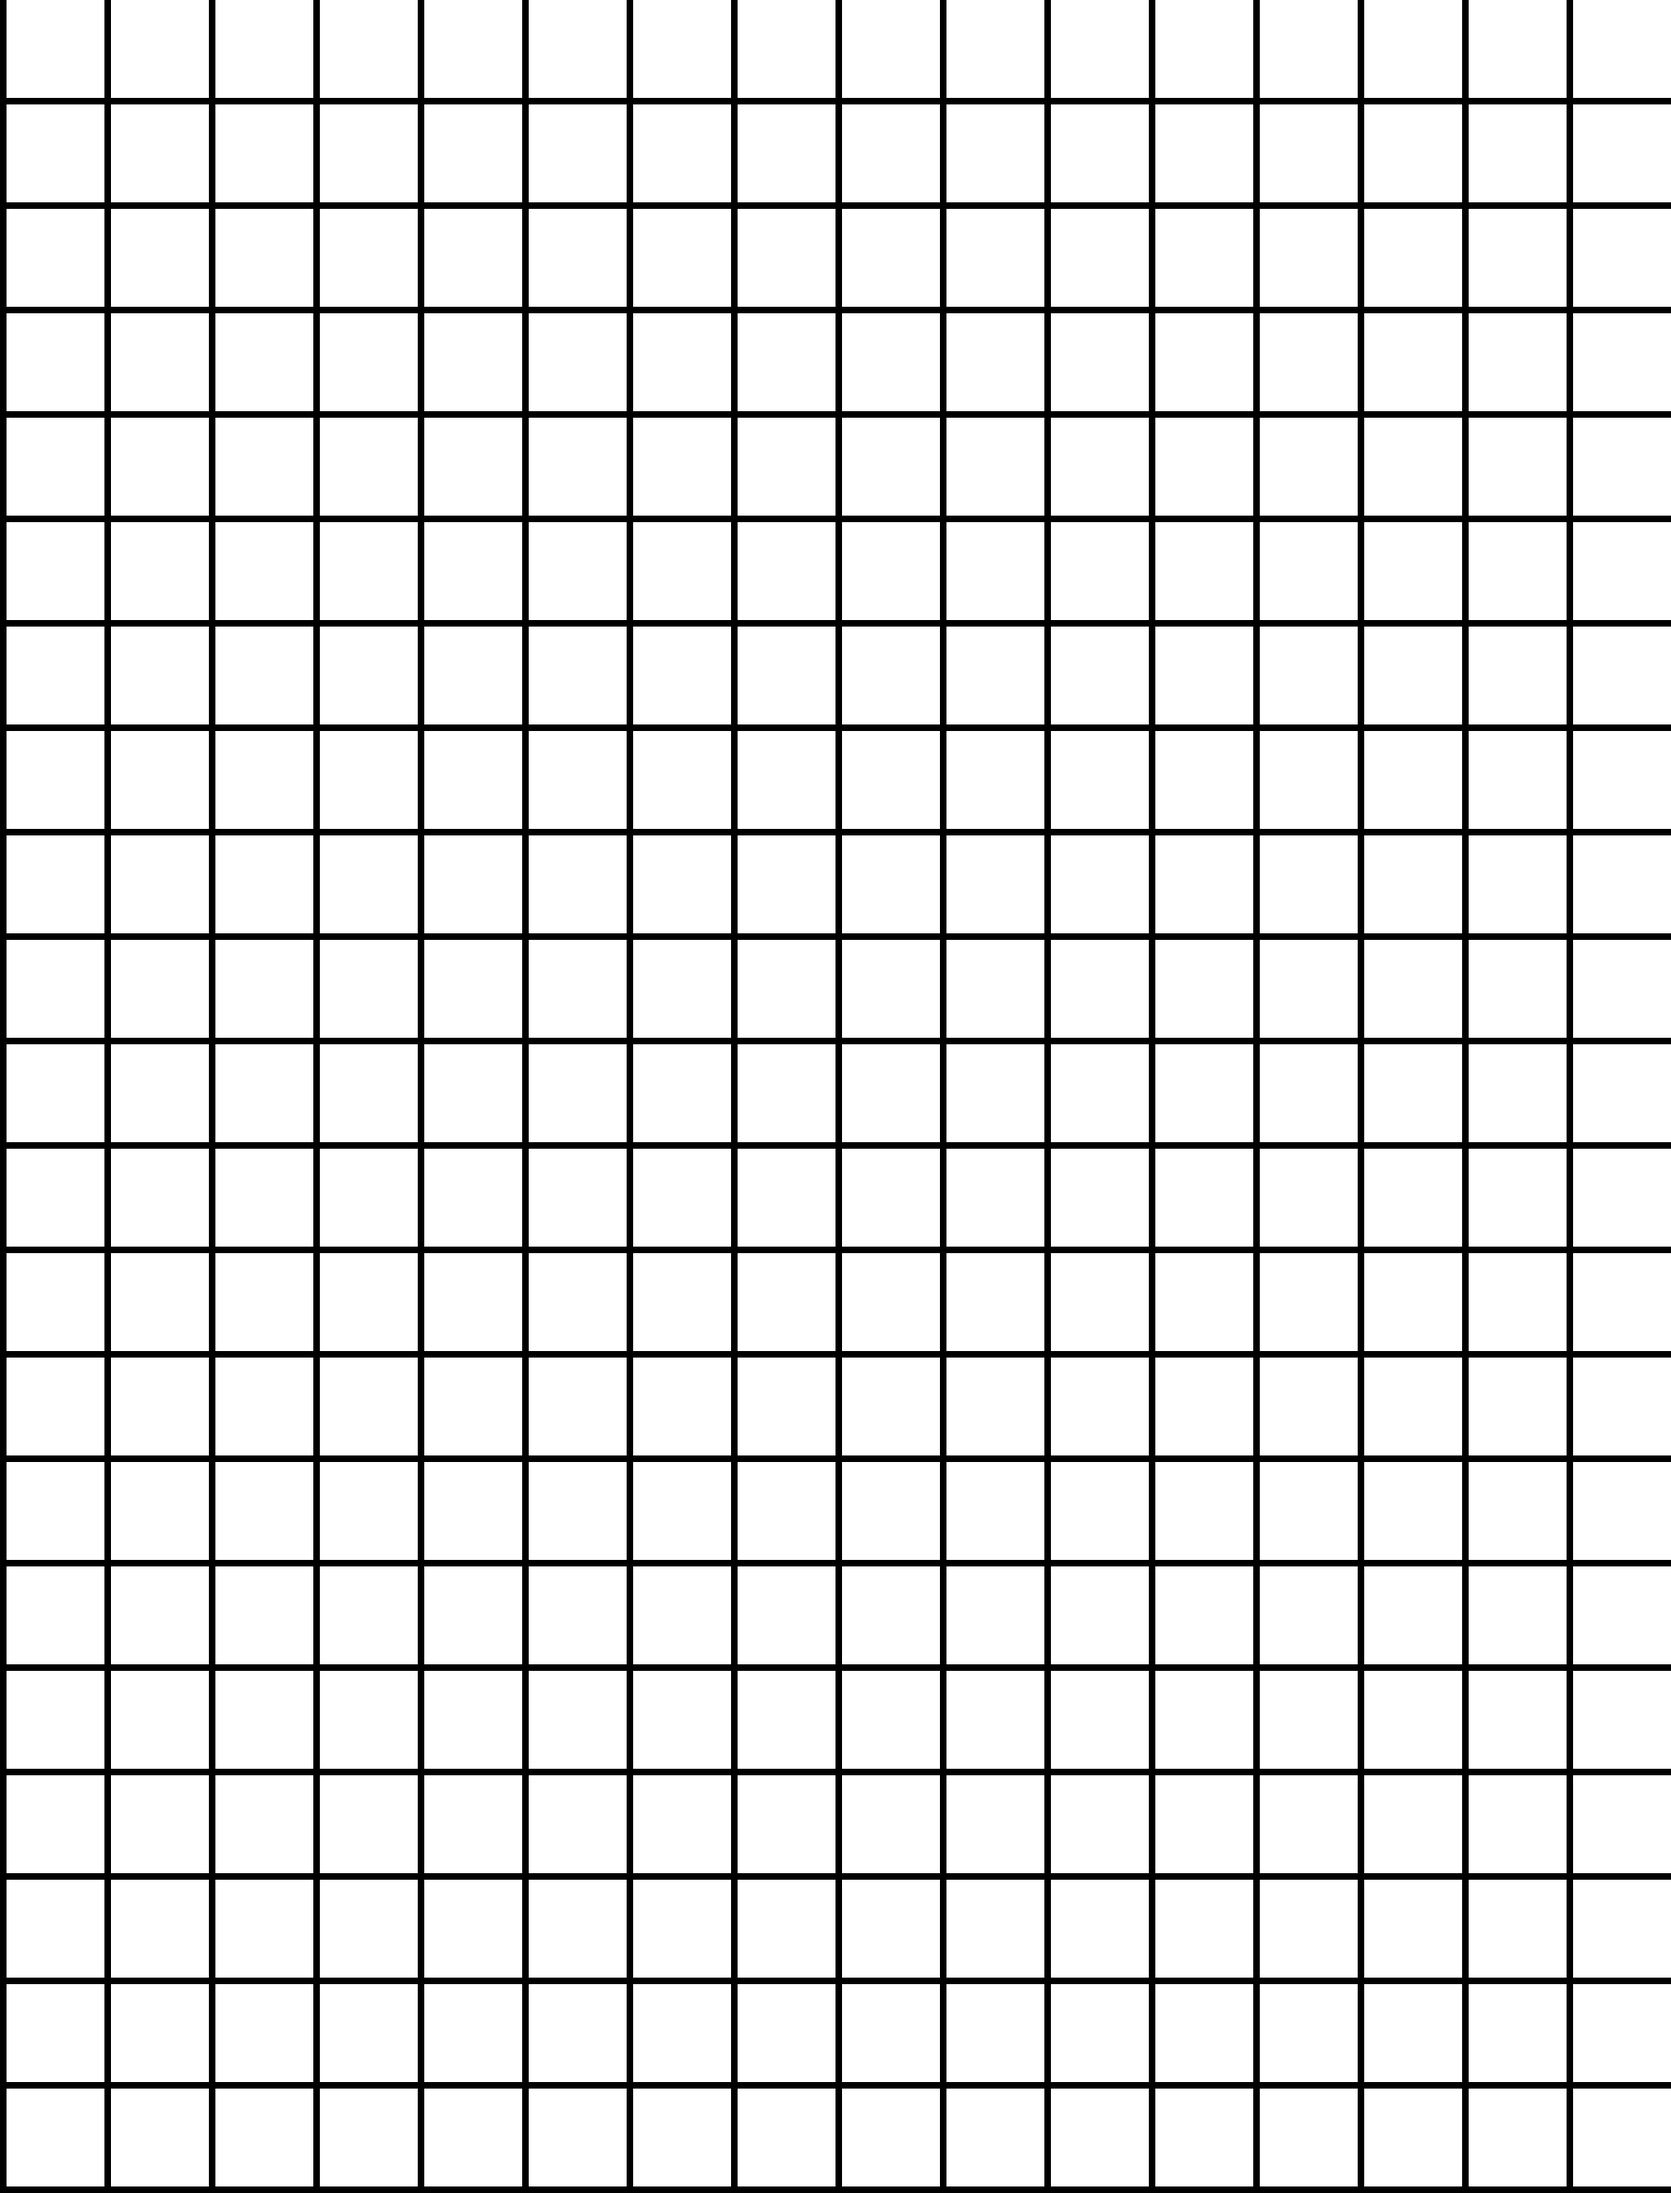
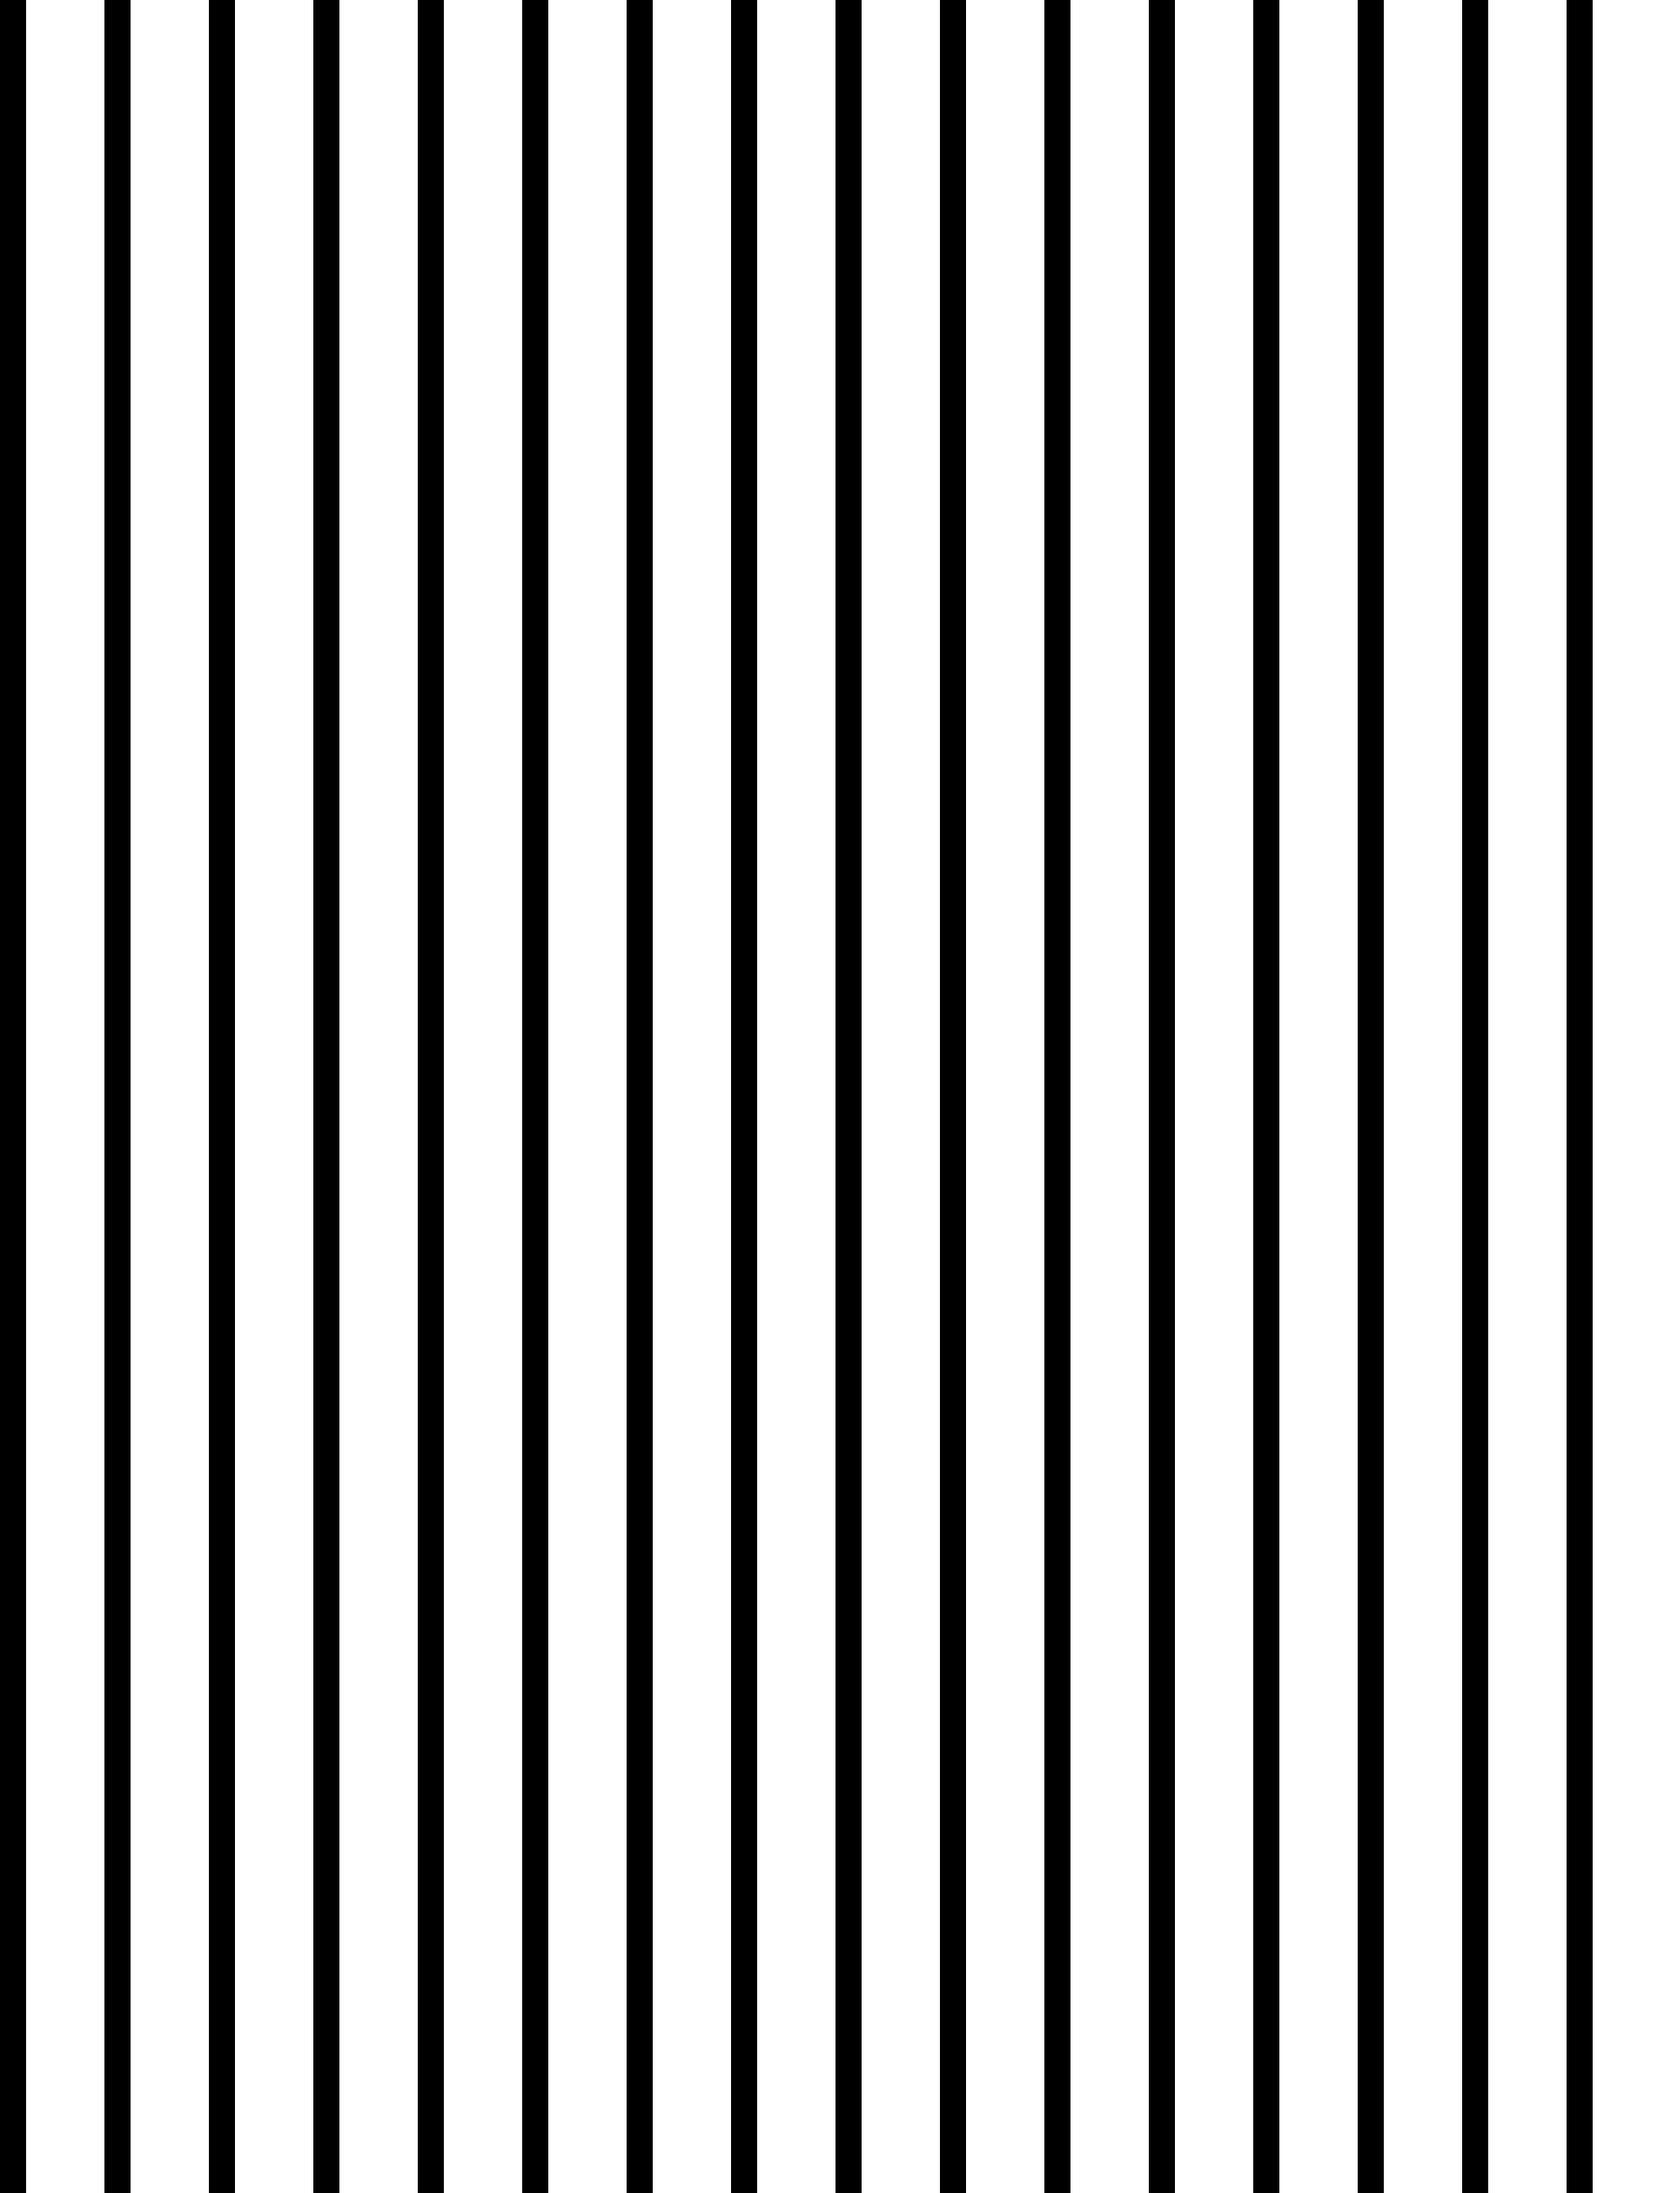
(post/css) Finish new blog post with opengraph tags
- updates to page <meta> tags for opengraph
- pandoc.yml for default options (author)
- change rotating page bg grid.png
- adjust timing of animation and opacity in deadagent.css
- disable flicker animation on #bg-grid in deadagent.css
- update template OpenGraph values
- add info on source of crt.css

diff --git a/src/css/crt.css b/src/css/crt.css
@@ -1,4 +1,10 @@
-/* The CRT effect was borrowed from http://aleclownes.com/2017/02/01/crt-display.html */
+/**
+  This is borrowed and modified slightly from https://psychoslinux.gitlab.io/DOS/INDEX.HTM.
+  From the previous author: "The CRT effect was borrowed from http://aleclownes.com/2017/02/01/crt-display.html"
+  See also https://codepen.io/lbebber/pen/XJRdrV/
+  - EF 2022-06-15
+*/
+
 @keyframes flicker {
     0% {
         background-position-x: 0%;
@@ -189,6 +195,7 @@
     animation: flicker 0.15s infinite;
 }
 
+/* this is the overlay of "scan lines" */
 .crt::before {
     content: " ";
     display: block;
@@ -203,6 +210,7 @@
     pointer-events: none;
 }
 
+/* chroma flickering effect */
 .crt {
     animation: textShadow 1.6s infinite;
 }

diff --git a/src/css/deadagent.css b/src/css/deadagent.css
@@ -139,7 +139,6 @@ pre {
   display: flex;
   pointer-events: none;
   flex-direction: column;
-  animation:  flicker 2s alternate-reverse;
 }
 
 /* #keyframes */
@@ -149,7 +148,7 @@ pre {
   }
 
   50% {
-      transform: scale(5) rotate3d(0,0.2,1,360deg);
+      transform: scale(5) rotate3d(0,0.5,1,360deg);
   }
 
   100% {
@@ -162,11 +161,11 @@ pre {
   min-height: 100%;
   flex: 1;
   animation-name: bgGridMovement;
-  animation-duration: 60s;
+  animation-duration: 240s;
   animation-iteration-count: infinite;
   animation-direction: alternate;
   animation-timing-function: ease-in-out;
-  opacity: 0.3;
+  opacity: 0.1;
 }
 
 /* index page promo grid - EF 2022-05-30 */

diff --git a/src/writing/chapters_december_1994_how_arnie_katz_changed_my_life.md b/src/writing/chapters_december_1994_how_arnie_katz_changed_my_life.md
@@ -1,7 +1,9 @@
 ---
 title: "DEAD AGENT: Chapters December 1994: How Arnie Katz Changed My Life"
 lang: en-US
-pageImgUrl: https://deadagent.net/img/electronic-gaming-december-1994-music-of-the-spheres-article/thumb/IMG_5251.jpg
+date: '2022-06-14T22:57:09-04:00'
+ogType: article
+ogImgUrl: https://deadagent.net/img/electronic-gaming-december-1994-music-of-the-spheres-article/thumb/IMG_5251.jpg
 ...
 
 # Chapters: Dec 1994 - How Arnie Katz Changed My Life
@@ -80,3 +82,5 @@ It really all started with that column in Video Games and Computer Entertainment
 I had that need to create and connect in me all the time. Arnie gave me the opportunity, and mentored and encouraged me. Imagine a 50 something dude talking to a 14 year old on the phone for an hour  while he peppers you with questions about the video game biz. But he tolerated it all, and kept encouraging me and supporting me.
 
 Anyway, thank you Arnie. You are a true Mensch.
+
+[Return](./)
